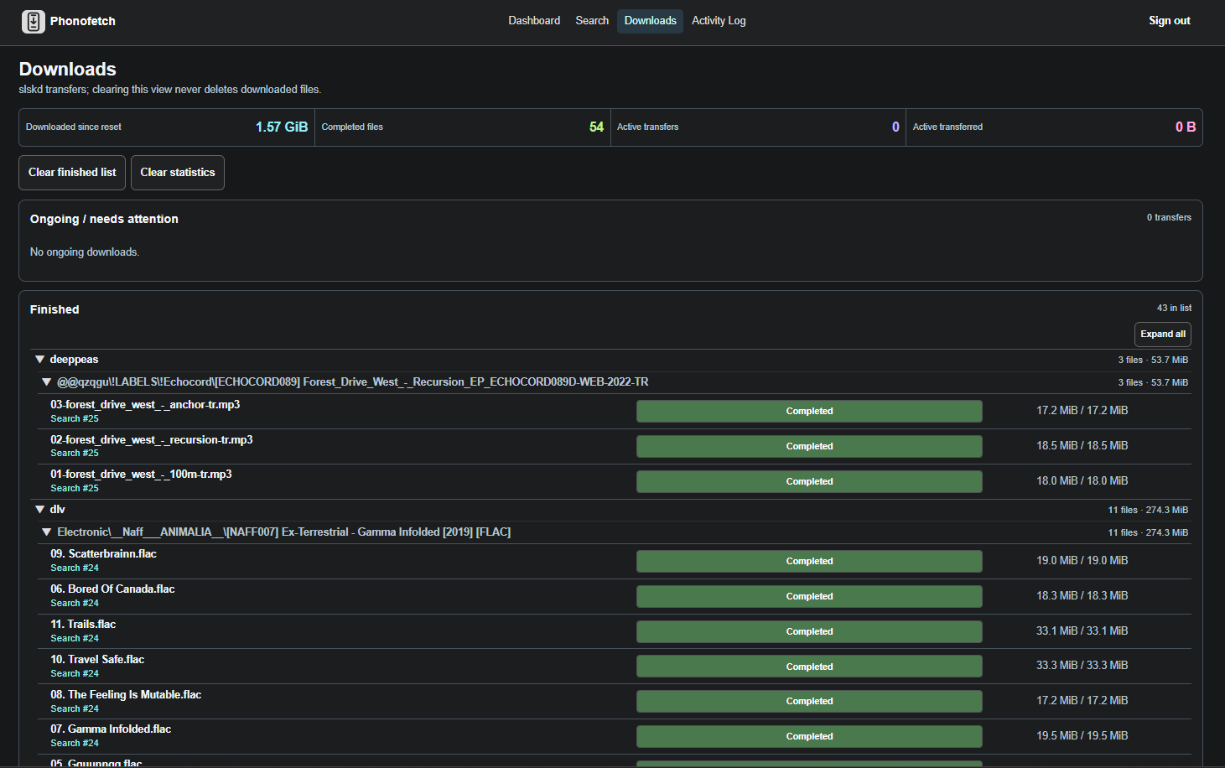
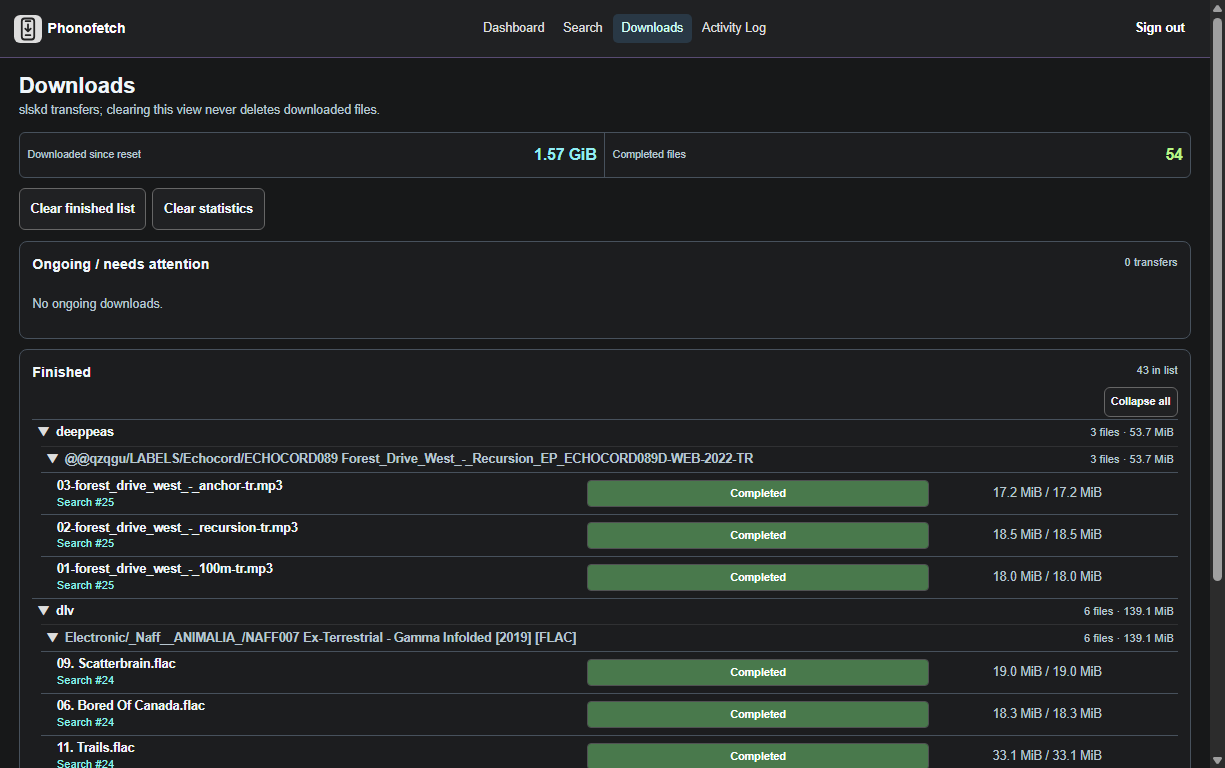
Simplify download statistics to completed totals
Remove active transfer summary cards while keeping ongoing transfers visible in the list and tabs. Refresh desktop and phone Downloads images.

diff --git a/src/client/compact.css b/src/client/compact.css
@@ -110,7 +110,7 @@ details > summary:focus-visible { outline: 2px solid #bcbcbc; outline-offset: 2p
 .metric:last-child { border-right: 0; }
 .metric strong { flex: none; font-size: 1.5rem; line-height: 1; font-variant-numeric: tabular-nums; }
 .metric span { color: var(--muted); font-size: .85rem; line-height: 1.1; overflow-wrap: anywhere; }
-.download-metrics { grid-template-columns: repeat(4, minmax(0, 1fr)); }
+.download-metrics { grid-template-columns: repeat(2, minmax(0, 1fr)); }
 .download-metrics .metric strong { font-size: 1.25rem; }
 .download-brief { display: flex; justify-content: space-between; gap: .6rem; padding: .55rem 0; border-top: 1px solid var(--line); min-width: 0; }
 .download-brief > span { min-width: 0; overflow-wrap: anywhere; }
@@ -307,8 +307,6 @@ progress { width: 100%; height: .55rem; accent-color: var(--accent); }
 }
 .download-metrics .metric:nth-child(1) strong { color: #92edf4; }
 .download-metrics .metric:nth-child(2) strong { color: #baf389; }
-.download-metrics .metric:nth-child(3) strong { color: #c2abfc; }
-.download-metrics .metric:nth-child(4) strong { color: #ffa4df; }
 .download-actions .quiet { color: var(--danger); }
 :root :is(.folder-tree-select input, .check input, progress) { accent-color: var(--accent); }
 :root :is(button, a, input, textarea, select):focus-visible { outline-color: var(--accent); }

diff --git a/src/client/main.tsx b/src/client/main.tsx
@@ -151,9 +151,7 @@ function App(): React.ReactElement {
 function DownloadMetrics({ stats }: { stats?: DownloadStats }): React.ReactElement {
   const metrics = [
     { label: "Downloaded since reset", value: stats ? bytes(stats.completed_bytes) : "…" },
-    { label: "Completed files", value: stats?.completed_count ?? "…" },
-    { label: "Active transfers", value: stats?.active_count ?? "…" },
-    { label: "Active transferred", value: stats ? bytes(stats.active_transferred_bytes) : "…" }
+    { label: "Completed files", value: stats?.completed_count ?? "…" }
   ];
   return <div className="metrics download-metrics">{metrics.map(metric =>
     <div className="metric" key={metric.label}><strong>{metric.value}</strong><span>{metric.label}</span></div>)}</div>;
